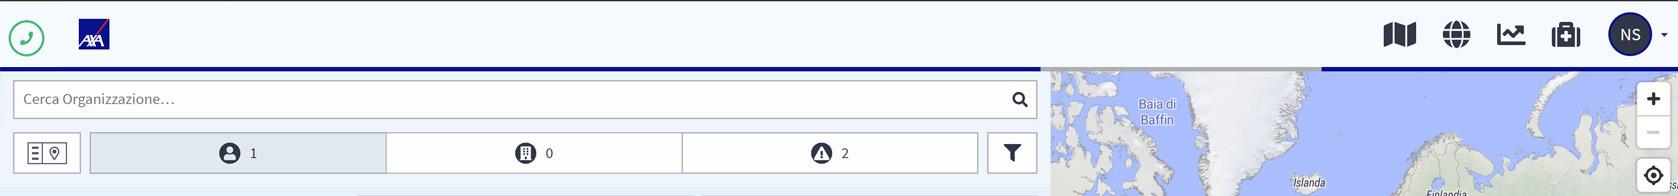
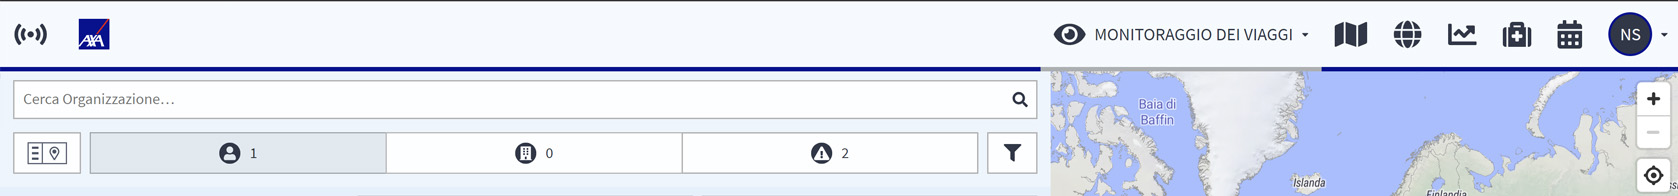
GitBook: [italian] one page and 5 assets modified

Changed region(s): [[0.6198, 0.0918, 0.9607, 0.2449], [0.0, 0.0918, 0.031, 0.3061]]

diff --git a/getting-started.md b/getting-started.md
@@ -8,7 +8,7 @@ Ci sono diverse caratteristiche di base che sono sempre visibili nella parte sup
 
 Iniziate ad utilizzare la piattaforma controllando la barra di navigazione. Cliccate/toccate la rispettiva icona per accedere direttamente al **Pulsante di emergenza**, alla **Mappa dei Rischi**, agli **Eventi Globali**, alle **Informazioni sui Paesi** e **Rete Medica**. Infine, è possibile accedere al proprio profilo per amministrare il proprio account personale o quello di altri, a seconda delle proprie autorizzazioni.
 
-![](.gitbook/assets/getting-started_img01%20%284%29.jpg)
+![](.gitbook/assets/getting-started_img01%20%285%29.jpg)
 
 ### **PULSANTE DI EMERGENZA** 
 
